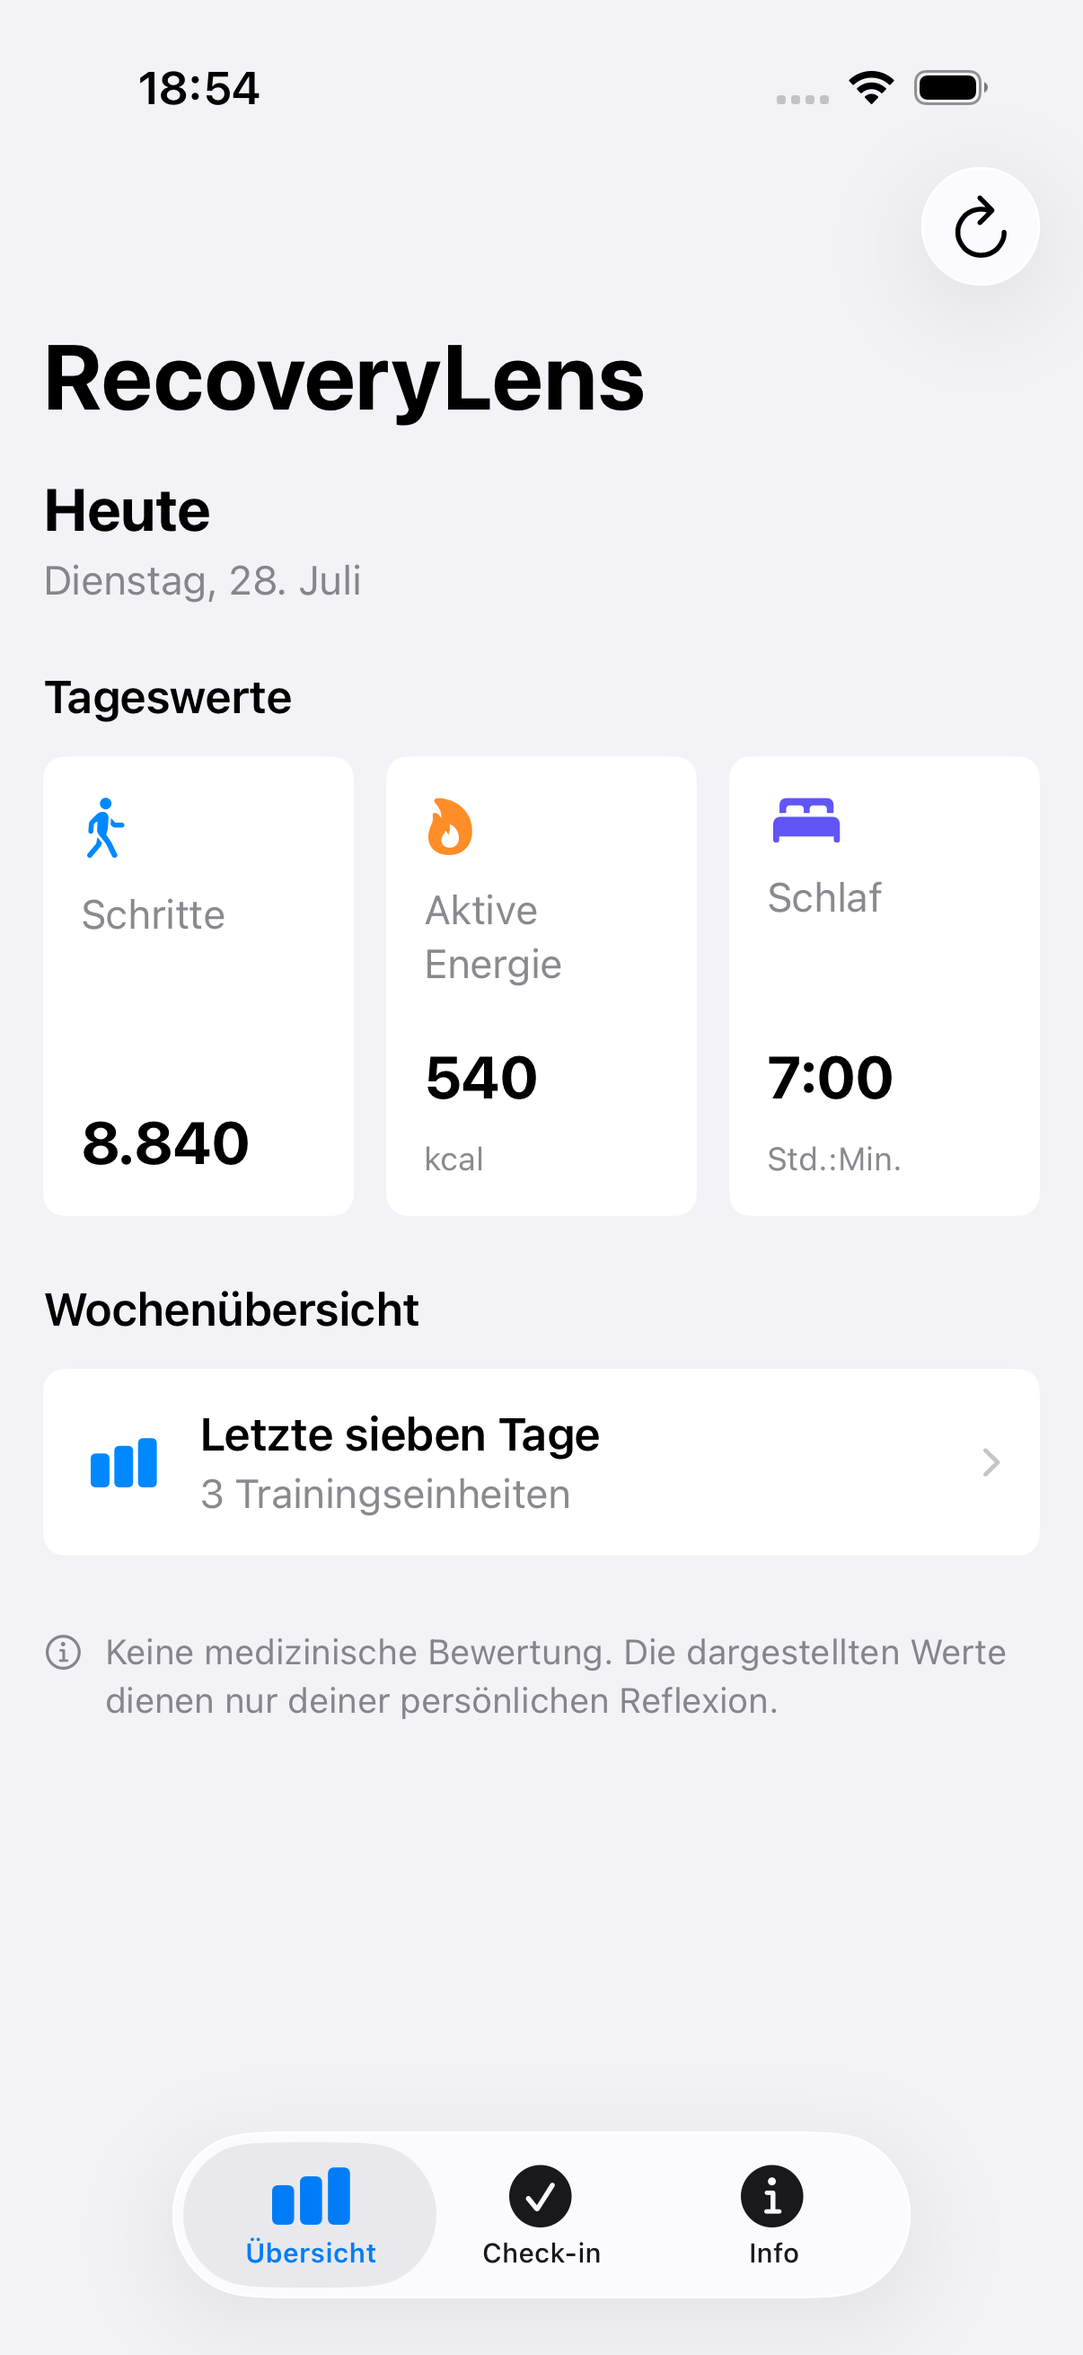
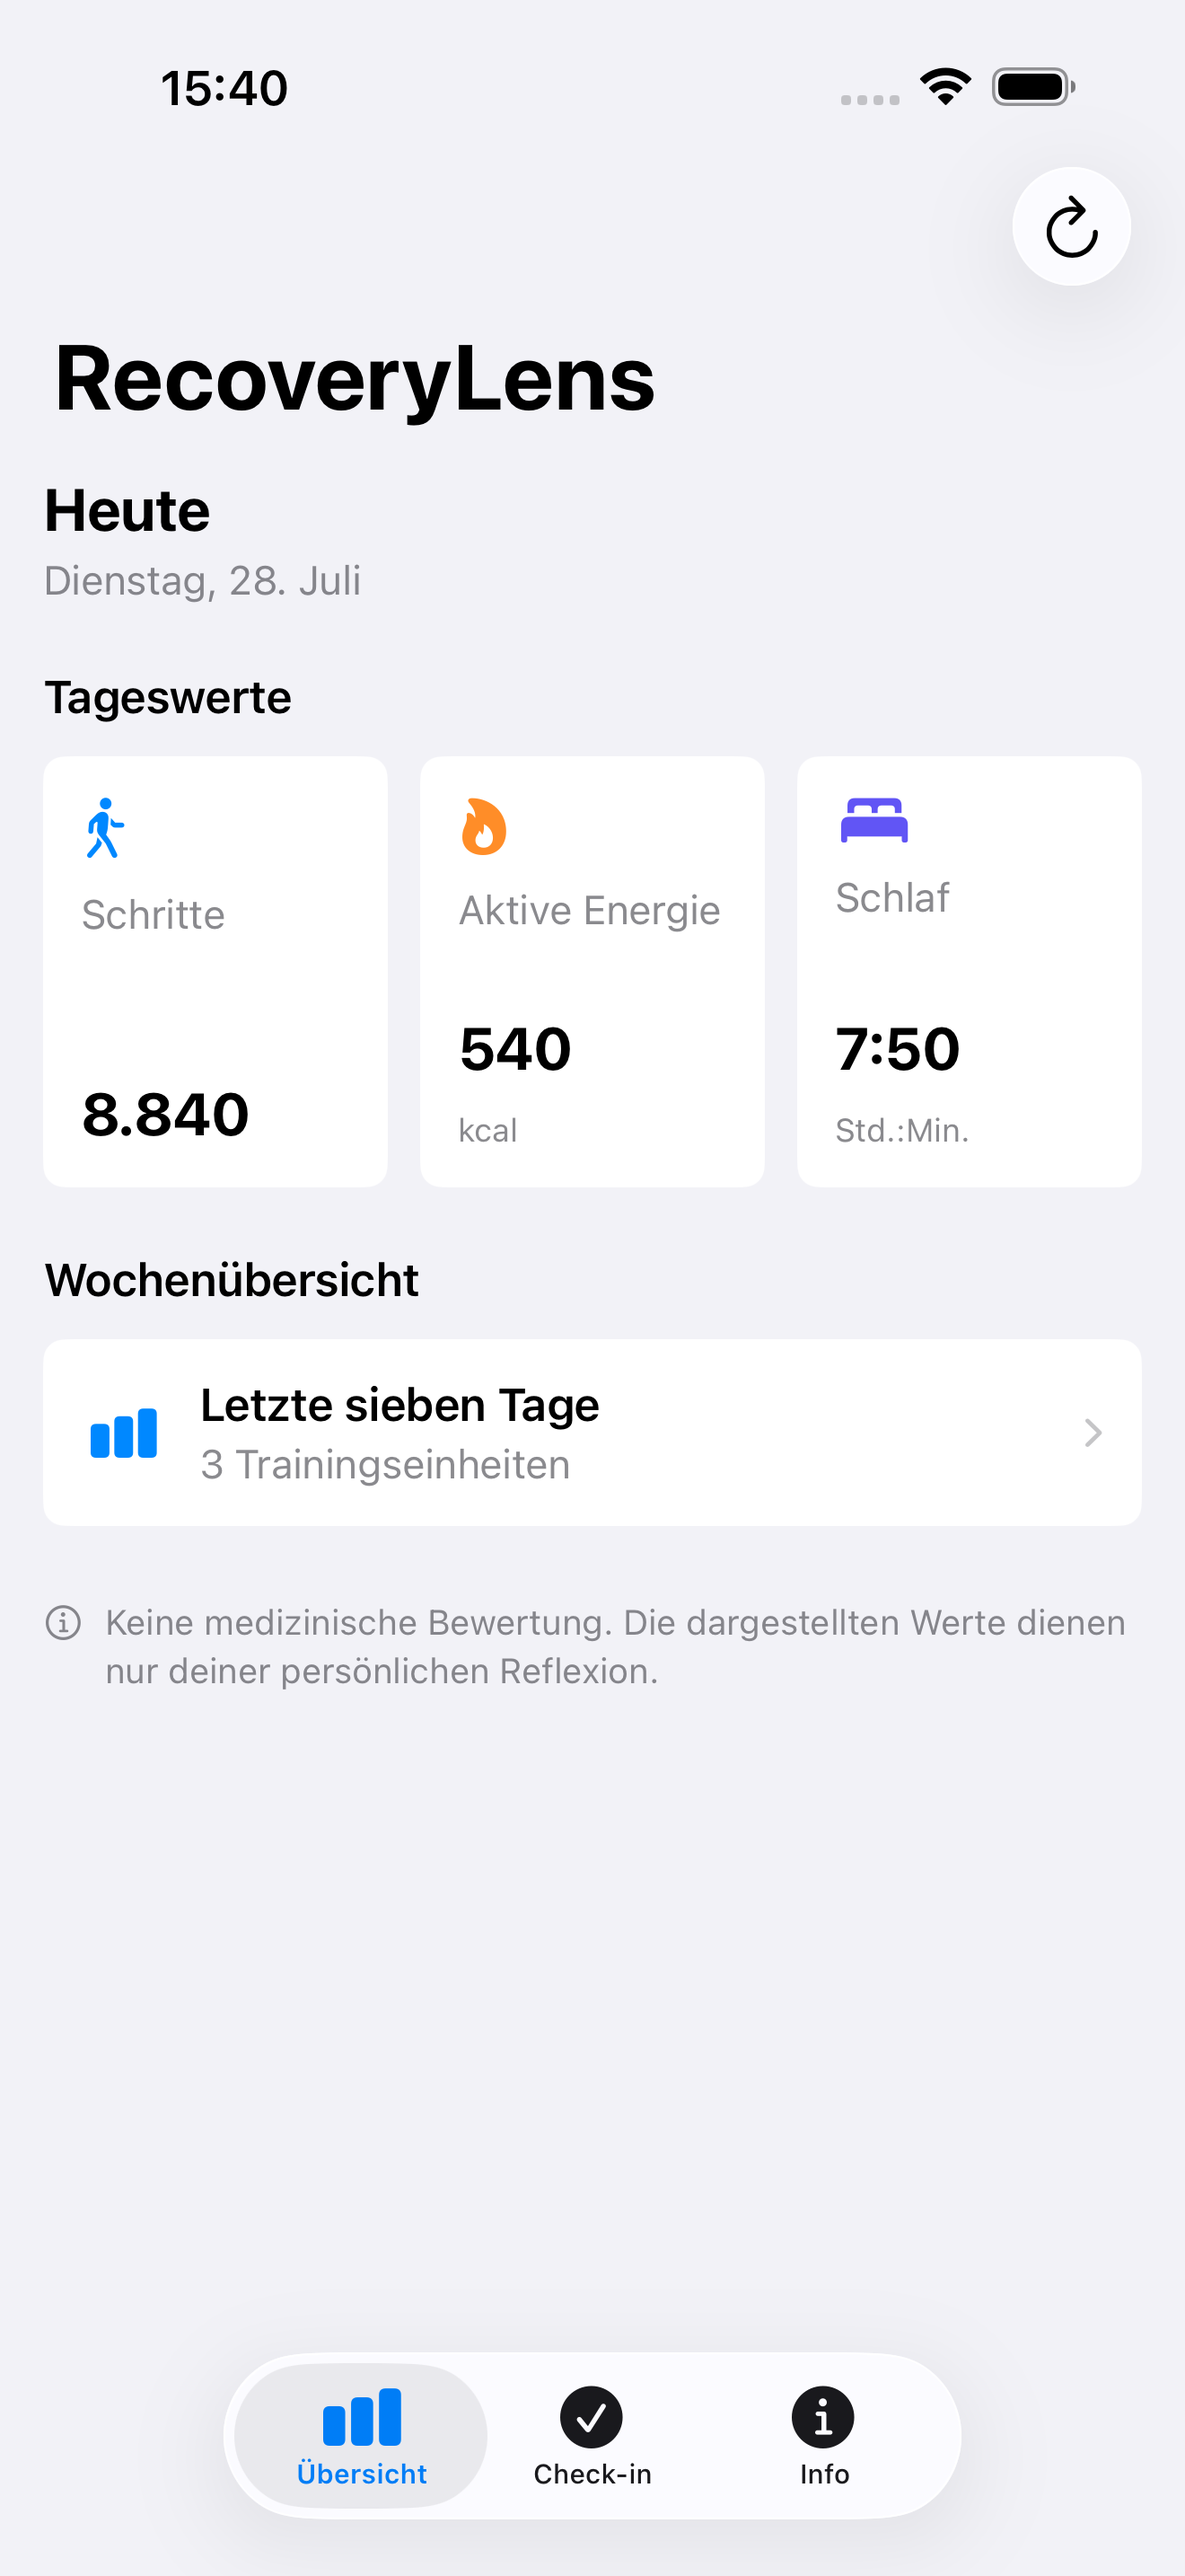
🔐 Privaten Support und iPhone-Release absichern
Ein vertraulicher Kontaktweg, der Mac-Opt-out und passende 6,9-Zoll-Screenshots schließen Datenschutz- und Vertriebsrisiken vor der Veröffentlichung.

diff --git a/RecoveryLens/RecoveryLens/Views/InfoView.swift b/RecoveryLens/RecoveryLens/Views/InfoView.swift
@@ -9,6 +9,7 @@ struct InfoView: View {
             permissions
             boundaries
             privacyPolicy
+            support
         }
         .navigationTitle("Info & Datenschutz")
         .navigationBarTitleDisplayMode(.inline)
@@ -141,6 +142,23 @@ struct InfoView: View {
                 )
             }
             .accessibilityIdentifier("privacy-policy-link")
+        }
+    }
+
+    private var support: some View {
+        Section("Kontakt") {
+            Link(
+                destination: URL(string: "mailto:hakhoi@gmx.de")!
+            ) {
+                Label("Support per E-Mail", systemImage: "envelope")
+            }
+            .accessibilityIdentifier("support-email-link")
+
+            Text(
+                "Bitte sende keine HealthKit-Werte, Check-in-Notizen oder anderen sensiblen Gesundheitsdaten mit."
+            )
+            .font(.footnote)
+            .foregroundStyle(.secondary)
         }
     }
 }

diff --git a/RecoveryLens/RecoveryLensUITests/RecoveryLensUITests.swift b/RecoveryLens/RecoveryLensUITests/RecoveryLensUITests.swift
@@ -63,6 +63,12 @@ final class RecoveryLensUITests: XCTestCase {
         ]
         scrollUntilHittable(privacyPolicyLink, in: app)
         XCTAssertTrue(privacyPolicyLink.isHittable)
+
+        let supportLink = app.descendants(matching: .any)[
+            "support-email-link"
+        ]
+        scrollUntilHittable(supportLink, in: app)
+        XCTAssertTrue(supportLink.isHittable)
     }
 
     @MainActor

diff --git a/TESTFLIGHT_CHECKLIST.md b/TESTFLIGHT_CHECKLIST.md
@@ -25,6 +25,7 @@ bleibt für weitere Builds dieses MVPs bei `0.1.0`.
 - [x] Keine Drittanbieter-SDKs, Analytik, Werbung oder Netzwerkübertragung
 - [x] Keine eigene oder nicht ausgenommene Verschlüsselung
 - [x] Reproduzierbare Demo-Daten und Portfolio-Screenshots sind vorhanden
+- [x] Screenshots liegen im akzeptierten 6,9-Zoll-iPhone-Format vor
 - [x] Unit- und UI-Testabdeckung für die MVP-Zustände ist vorhanden
 - [x] Xcode 26.6 und iOS-26-SDK erfüllen die Upload-Anforderung ab April 2026
 
@@ -37,6 +38,7 @@ an App Store Connect übertragbarer Build.
 - [ ] Bundle Identifier im verwendeten Developer-Team registrieren
 - [ ] App-Datensatz in App Store Connect anlegen oder prüfen
 - [ ] Automatische Signierung ohne Fehler auflösen
+- [ ] Verfügbarkeit auf Apple-Silicon-Macs in App Store Connect deaktivieren
 - [ ] Live-HealthKit-Flow auf einem physischen iPhone prüfen
 - [ ] Berechtigungsdialog und einzeln verweigerte Datentypen prüfen
 - [ ] Reale Schlafdaten aus mehreren Quellen prüfen
@@ -52,7 +54,10 @@ Ob das für dieses Team möglich ist, muss im Organizer geprüft werden.
 
 ## App Store Connect
 
-- [ ] Support- und Datenschutz-URL hinterlegen
+- [ ] Support-URL hinterlegen:
+      `https://github.com/KhoiiHa/RecoveryLens-IOS/blob/main/SUPPORT.md`
+- [ ] Datenschutz-URL hinterlegen:
+      `https://github.com/KhoiiHa/RecoveryLens-IOS/blob/main/PRIVACY.md`
 - [ ] App-Privacy-Antworten anhand von `PRIVACY.md` ausfüllen
 - [ ] Altersfreigabe-Fragen vollständig beantworten
 - [ ] Export-Compliance-Angabe gegen den Build prüfen

diff --git a/README.md b/README.md
@@ -60,6 +60,8 @@ Die vollständige [Datenschutzerklärung](PRIVACY.md) ist öffentlich erreichbar
 und in der Infoansicht der App verlinkt. Das gebündelte Privacy Manifest
 deklariert entsprechend der aktuellen Implementierung kein Tracking, keine
 Off-Device-Datenerhebung und keine direkt verwendeten Required-Reason-APIs.
+Technische Rückfragen können über die [Supportseite](SUPPORT.md) ohne
+Veröffentlichung persönlicher Gesundheitsdaten gestellt werden.
 
 ## Fachliche Grenzen
 
@@ -133,9 +135,12 @@ Die drei README-Screenshots werden mit einem fokussierten UI-Test erzeugt:
 Ein anderes vorhandenes Simulatorziel kann explizit gesetzt werden:
 
 ```bash
-RECOVERYLENS_DESTINATION='platform=iOS Simulator,name=iPhone 17 Pro,OS=26.5' \
+RECOVERYLENS_DESTINATION='platform=iOS Simulator,name=iPhone 17 Pro Max,OS=26.5' \
 ./scripts/capture_portfolio_screenshots.sh
 ```
+
+Die Standardausgabe verwendet das von App Store Connect akzeptierte
+6,9-Zoll-iPhone-Format. Es werden ausschließlich synthetische Daten erfasst.
 
 ## Projektstatus
 

diff --git a/SUPPORT.md b/SUPPORT.md
@@ -1,0 +1,25 @@
+# RecoveryLens Support
+
+## Kontakt
+
+Bei technischen Fragen oder Problemen mit RecoveryLens erreichst du den
+Entwickler per E-Mail unter [hakhoi@gmx.de](mailto:hakhoi@gmx.de).
+
+Bitte teile keine HealthKit-Werte, Check-in-Notizen oder anderen sensiblen
+Gesundheitsdaten. Für eine technische Einordnung genügen in der Regel:
+
+- verwendete RecoveryLens-Version
+- iPhone-Modell und iOS-Version
+- betroffener App-Zustand, zum Beispiel Berechtigung, Laden oder Check-in
+- Schritte, mit denen sich das Problem ohne persönliche Daten reproduzieren
+  lässt
+
+Nicht sensible, reproduzierbare Fehler können alternativ über die
+[GitHub-Issues](https://github.com/KhoiiHa/RecoveryLens-IOS/issues) gemeldet
+werden.
+
+## Datenschutz
+
+Die [Datenschutzerklärung](PRIVACY.md) beschreibt die lokale Verarbeitung von
+HealthKit-Daten und manuellen Check-ins. RecoveryLens stellt keine medizinische
+Diagnose oder Gesundheitsempfehlung bereit.

diff --git a/PRIVACY.md b/PRIVACY.md
@@ -60,6 +60,10 @@ Datenschutzerklärung vor einer Veröffentlichung entsprechend aktualisiert.
 
 ## Kontakt
 
-Fragen zum Datenschutz können über die
-[GitHub-Issues des Projekts](https://github.com/KhoiiHa/RecoveryLens-IOS/issues)
-gestellt werden.
+Fragen zum Datenschutz können vertraulich per E-Mail an
+[hakhoi@gmx.de](mailto:hakhoi@gmx.de) gestellt werden. Bitte sende keine
+HealthKit-Werte, Check-in-Notizen oder anderen sensiblen Gesundheitsdaten mit.
+
+Allgemeine technische Hinweise stehen auf der
+[Supportseite](SUPPORT.md). Öffentliche GitHub-Issues sind ausschließlich für
+Fehlerberichte ohne persönliche oder gesundheitliche Angaben vorgesehen.
